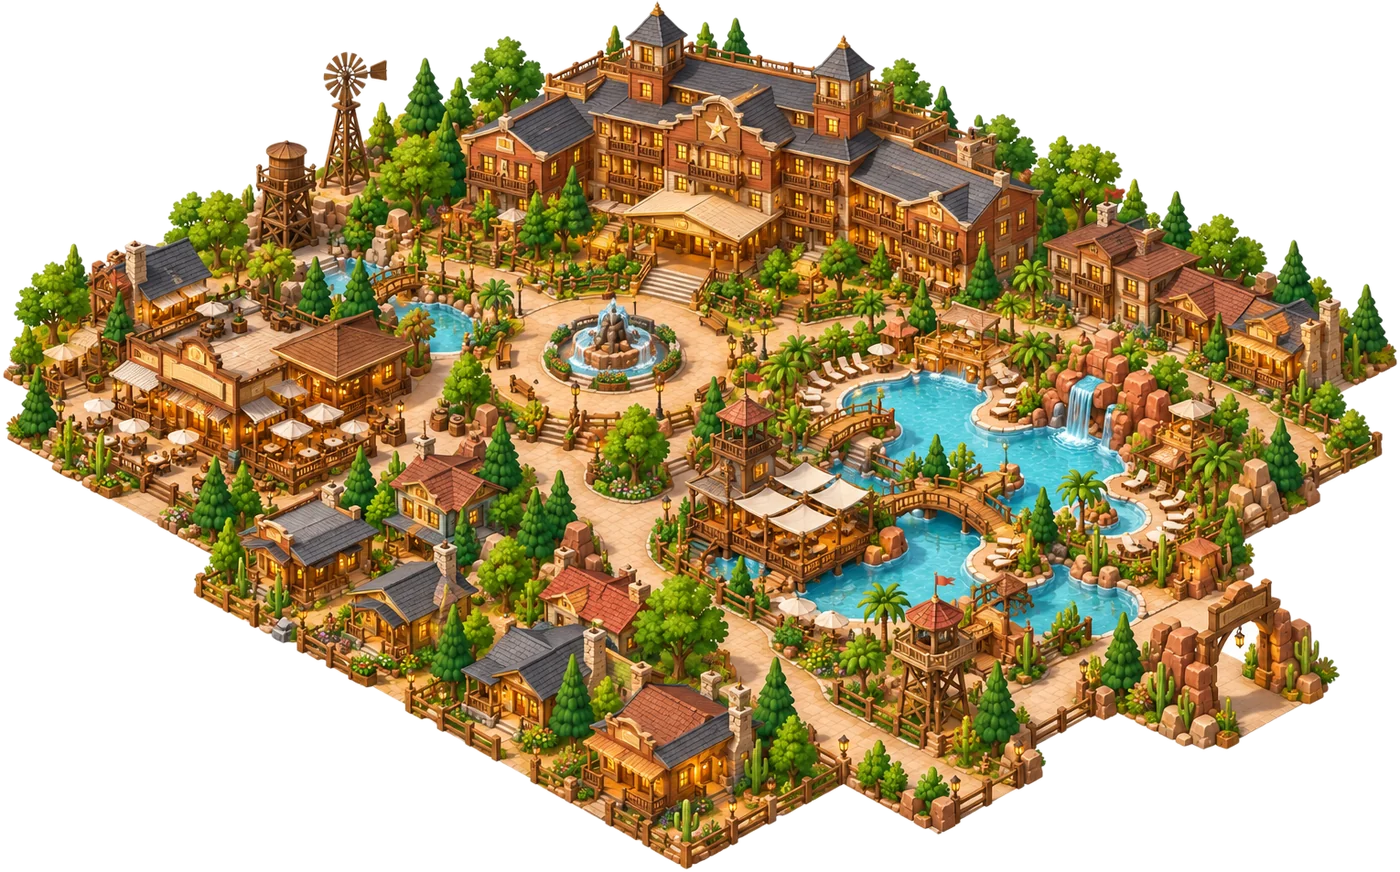
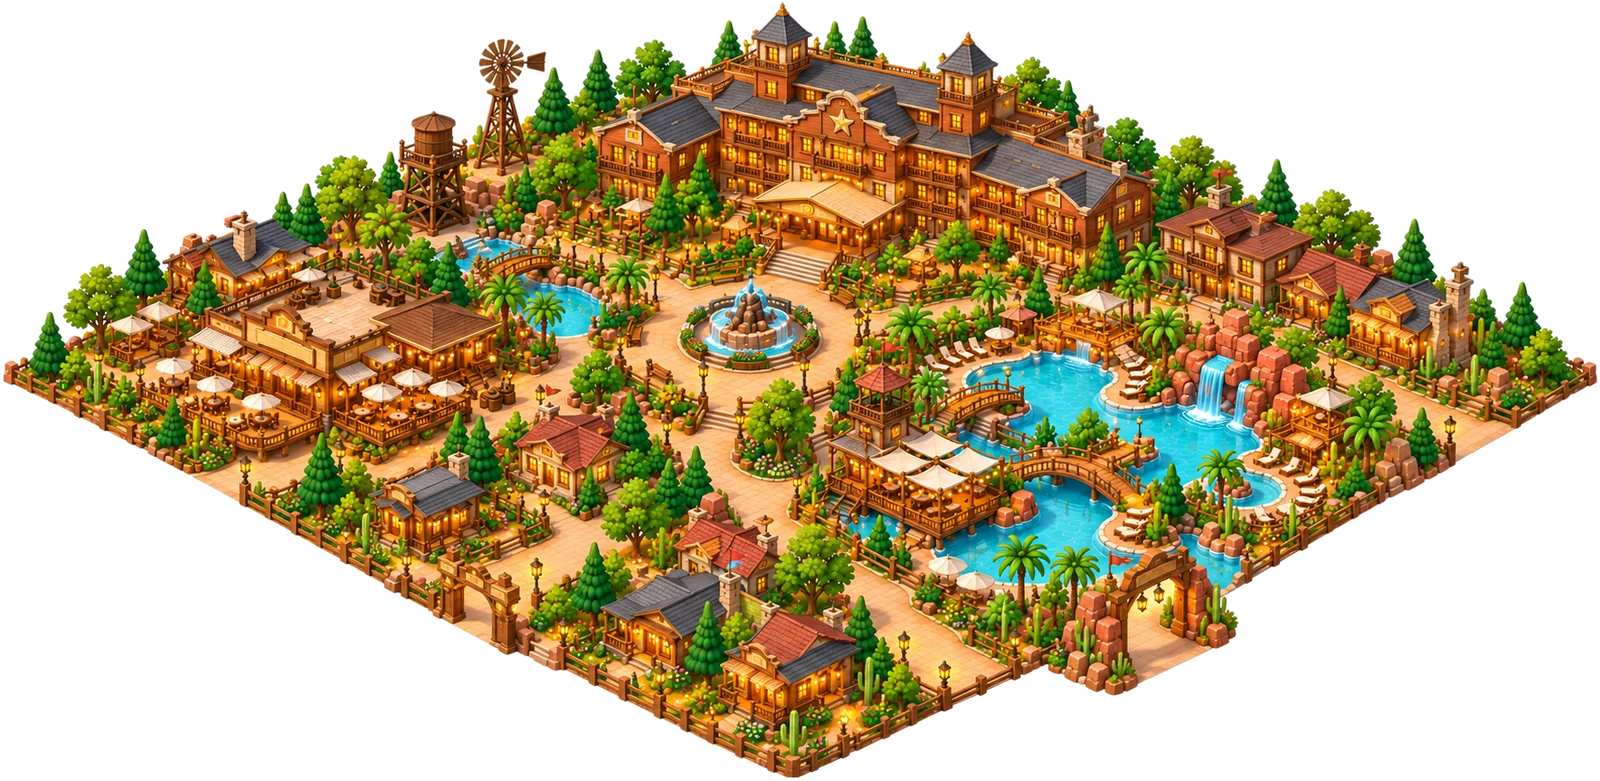
Add files via upload

diff --git a/js/parc.js b/js/parc.js
@@ -18,9 +18,9 @@ const WP = 128;                       // amplada d'una casella del parc (unitats
 const iso = (u, v) => ({ x: (u - v) * WP / 2, y: (u + v) * WP / 4 });
 const k2 = (x, y) => `${x},${y}`;
 // Les caselles van de (-7,-14) a (27,20): l'espai màxim del parc. idx() les passa a un índex de taula.
-// La graella fa 14 caselles més d'ample que l'espai màxim del parc: és on va el ressort (a la dreta).
+// La graella fa 14 caselles més d'ample que l'espai màxim del parc: és on va el ressort (a l'esquerra).
 const M = MIDA_TOTAL + 14;
-const OX = ORIGEN.x, OY = ORIGEN.y;
+const OX = ORIGEN.x + 14, OY = ORIGEN.y;
 const aLaGraella = (x, y) => x >= -OX && y >= -OY && x < M - OX && y < M - OY;
 const idx = (x, y) => (y + OY) * M + (x + OX);
 const desIdx = (c) => [c % M - OX, Math.floor(c / M) - OY];
@@ -202,6 +202,15 @@ export function obrirParc({ estat, desar = () => {}, publicar, onTanca, nomesLec
     const ent = parc.objectes.find((o) => OBJECTES[o.t].cat === 'fix');
     entradaAcces = ent ? acces.get(ent.id) : [];
     for (const id of [...rt.keys()]) if (!parc.objectes.some((o) => o.id === id)) rt.delete(id);
+  }
+  // Ressort de la versió anterior (a la dreta i amb una altra imatge): es torna a col·locar amb la nova
+  if (parc.ressort && parc.ressort.v !== RESSORT.versio) {
+    const vells = parc.objectes.filter((o) => OBJECTES[o.t]?.ressort);
+    const xs = vells.filter((o) => o.t === 'resort').map((o) => o.x);
+    const preus = {}; for (const o of vells) if (o.preu != null) preus[o.t] = o.preu;
+    parc.objectes = parc.objectes.filter((o) => !OBJECTES[o.t]?.ressort);
+    if (xs.length) parc.camins = parc.camins.filter((p) => p !== k2(xs[0] - 1, BLOC + 13));
+    delete parc.ressort.bx; situaRessort(preus);
   }
   // La torre de caiguda ara ocupa 2x2. Les que ja hi havia (1x1) creixen cap a la dreta i cap avall;
   // si no hi caben, es retiren i es tornen tots els diners.
@@ -799,7 +808,7 @@ export function obrirParc({ estat, desar = () => {}, publicar, onTanca, nomesLec
         const x = bx * BLOC + i, y = by * BLOC + i;
         if (!dinsM(x, by * BLOC - 1)) { trams.push(['x', x, by * BLOC]); punt(x, by * BLOC, 'x'); punt(x + 1, by * BLOC, 'x'); }
         if (!dinsM(x, (by + 1) * BLOC) && !forat(x, (by + 1) * BLOC)) { trams.push(['x', x, (by + 1) * BLOC]); punt(x, (by + 1) * BLOC, 'x'); punt(x + 1, (by + 1) * BLOC, 'x'); }
-        if (!dinsM(bx * BLOC - 1, y)) { trams.push(['y', bx * BLOC, y]); punt(bx * BLOC, y, 'y'); punt(bx * BLOC, y + 1, 'y'); }
+        if (!dinsM(bx * BLOC - 1, y) && !(portaR && portaR[0] + 1 === bx * BLOC && portaR[1] === y)) { trams.push(['y', bx * BLOC, y]); punt(bx * BLOC, y, 'y'); punt(bx * BLOC, y + 1, 'y'); }
         if (!dinsM((bx + 1) * BLOC, y) && !(portaR && portaR[0] === (bx + 1) * BLOC && portaR[1] === y)) { trams.push(['y', (bx + 1) * BLOC, y]); punt((bx + 1) * BLOC, y, 'y'); punt((bx + 1) * BLOC, y + 1, 'y'); }
       }
     }
@@ -1449,23 +1458,26 @@ export function obrirParc({ estat, desar = () => {}, publicar, onTanca, nomesLec
     });
   }
   function hotelsRessort() { return parc.objectes.filter((o) => o.t === 'resort-hotel'); }
+  // Col·loca el ressort a l'esquerra del parc (a les dues files de davant), amb les seves instal·lacions
+  function situaRessort(preus = {}) {
+    const bx = Math.min(...parc.blocs.map((b) => b.split(',').map(Number)).filter(([, by]) => by >= 1).map(([x]) => x)) - 2;
+    parc.ressort = { ...(parc.ressort || {}), bx, v: RESSORT.versio, pendents: parc.ressort?.pendents || 0, dema: parc.ressort?.dema || 0 };
+    const [x0, y0] = origenRessort();
+    parc.objectes.push({ id: parc.seguentId++, t: 'resort', x: x0, y: y0 });
+    for (const [t, u, v] of RESSORT.llocs) parc.objectes.push({ id: parc.seguentId++, t, x: x0 + u, y: y0 + v, preu: preus[t] ?? (t === 'resort-restaurant' ? OBJECTES[t].preuJust : 0) });
+    // camí del parc fins a la porta (si la casella és lliure)
+    const [px, py] = aRessort(...RESSORT.porta), q = k2(px + 1, py);
+    if (!parc.camins.includes(q) && !parc.objectes.some((o) => { const m = OBJECTES[o.t].mida; return px + 1 >= o.x && px + 1 < o.x + m && py >= o.y && py < o.y + m; })) parc.camins.push(q);
+  }
   function compraRessort() {
     if (parc.ressort) return;
     if (parc.diners < RESSORT.preu) return avis(`No tens prou diners: el ressort costa ${eur(RESSORT.preu)}.`, 'error');
-    // va just a la dreta del parc, a les dues files de davant
-    const bx = 1 + Math.max(...parc.blocs.map((b) => b.split(',').map(Number)).filter(([, by]) => by >= 1).map(([x]) => x));
-    if (!confirm(`Vols construir el Ressort del Far West per ${eur(RESSORT.preu)}? Anirà en un terreny nou de 14x14 caselles, a la dreta del parc, amb una porta directa al parc. Costa ${eur(RESSORT.manteniment)} al dia de manteniment.`)) return;
+    if (!confirm(`Vols construir el Ressort del Far West per ${eur(RESSORT.preu)}? Anirà en un terreny nou de 14x14 caselles, a l'esquerra del parc, amb l'entrada a la carretera i una porta directa al parc. Costa ${eur(RESSORT.manteniment)} al dia de manteniment.`)) return;
     parc.diners -= RESSORT.preu; parc.totals.despeses += RESSORT.preu;
-    parc.ressort = { bx, pendents: 0, dema: 0 };
     parc.preus.hotel ??= RESSORT.preuNit;
-    const [x0, y0] = origenRessort();
-    parc.objectes.push({ id: parc.seguentId++, t: 'resort', x: x0, y: y0 });
-    for (const [t, u, v] of RESSORT.llocs) parc.objectes.push({ id: parc.seguentId++, t, x: x0 + u, y: y0 + v, preu: t === 'resort-restaurant' ? OBJECTES[t].preuJust : 0 });
-    // camí del parc fins a la porta (si la casella és lliure)
-    const [px, py] = aRessort(...RESSORT.porta), q = k2(px - 1, py);
-    if (!parc.camins.includes(q) && !parc.objectes.some((o) => { const m = OBJECTES[o.t].mida; return px - 1 >= o.x && px - 1 < o.x + m && py >= o.y && py < o.y + m; })) parc.camins.push(q);
+    situaRessort();
     recalcula(); guarda(true); encaixa(); obreRessort();
-    avis('Ja tens el ressort! Connecta amb un camí la porta (a la cantonada de davant a l\'esquerra) amb la resta del parc.', 'ok');
+    avis('Ja tens el ressort! Connecta amb un camí la porta del ressort (a la vora esquerra del parc) amb la resta de camins.', 'ok');
   }
   function obreRessort() {
     if (!parc.ressort) {

diff --git a/js/parc-dades.js b/js/parc-dades.js
@@ -307,31 +307,31 @@ export const NOMS_VISITANTS = ['Pau', 'Martina', 'Jan', 'Júlia', 'Marc', 'Laia'
 // les terrasses i s'hi pot quedar a dormir (ingrés per nit). Tot es dona en caselles relatives (u, v).
 export const RESSORT = {
   preu: 280000, manteniment: 2600, mida: 14, habitacions: 90, preuNit: 75, atractiu: 6,
-  img: 'resort',
-  // cantonades de terra a la imatge (esquerra, baix, dreta) per encaixar-la sobre les 14x14 caselles
-  punts: [[13.7, 370.6], [654.2, 828.1], [1390.8, 366]],
+  img: 'resort', versio: 2,
+  // cantonades de terra a la imatge que van a l'esquerra, a baix i a la dreta de la pantalla.
+  // La imatge es dibuixa en mirall: així la porteta queda a la vora que toca el parc i l'arc mira a la carretera.
+  punts: [[1596.4, 377.6], [800.5, 785.1], [2.7, 377.2]],
   // caselles per on es pot caminar (els camins de la imatge)
   camins: [
-    [4, 6], [4, 7], [4, 8], [5, 6], [5, 8], [6, 6], [6, 7], [6, 8],          // plaça de la font
-    [4, 5], [5, 5], [6, 5],                                                  // davant de l'hotel
-    [7, 5], [7, 6], [8, 5], [8, 4], [9, 4], [9, 3], [10, 3], [10, 2], [11, 2], [12, 2], [12, 3],   // cap a la piscina i l'hotel de l'est
-    [13, 3], [13, 4], [13, 5], [13, 6], [13, 7], [13, 8], [13, 9], [13, 10], // passeig de la dreta fins a l'arc
-    [12, 10], [11, 10], [10, 10], [9, 10], [8, 10], [7, 10], [6, 10], [6, 9], [8, 9], [8, 8],  // avinguda del sud
-    [4, 9], [4, 10], [4, 11], [3, 12], [2, 12], [2, 13], [1, 13], [0, 13],   // cap al saloon i la porta del parc
+    [5, 4], [6, 4], [7, 4], [7, 5], [7, 6], [8, 5], [8, 6], [5, 5], [5, 6], [5, 7], [6, 7], [4, 5],   // plaça de la font
+    [8, 7], [9, 7], [10, 7], [11, 7], [12, 7], [13, 7],                                                 // avinguda fins a la porta del parc
+    [9, 8], [9, 9], [9, 10], [9, 11], [9, 12], [9, 13], [8, 13], [7, 13],                               // passeig fins a l'arc
+    [9, 5], [9, 4], [10, 4],                                                                            // cap al saloon
+    [4, 6], [4, 7], [4, 8], [3, 7], [2, 7], [2, 8],                                                     // cap a la piscina i la casa de l'est
   ],
-  porta: [0, 13],      // casella del ressort que toca el parc (la porta directa)
-  entrada: [13, 9],    // on arriben els que entren per l'arc del ressort
+  porta: [13, 7],      // casella del ressort que toca el parc (la porteta)
+  entrada: [7, 13],    // l'arc del ressort, que dona a la carretera
   // instal·lacions: (u, v) de la casella; la gent hi arriba des d'un camí del costat
   llocs: [
-    ['resort-hotel', 4, 4], ['resort-hotel', 11, 1], ['resort-hotel', 5, 10],
-    ['resort-piscina', 9, 5], ['resort-piscina', 12, 4], ['resort-piscina', 3, 8],
-    ['resort-restaurant', 3, 11], ['resort-restaurant', 9, 8],
+    ['resort-hotel', 4, 4], ['resort-hotel', 1, 8], ['resort-hotel', 12, 6],
+    ['resort-piscina', 4, 9], ['resort-piscina', 8, 11], ['resort-piscina', 7, 3],
+    ['resort-restaurant', 10, 3], ['resort-restaurant', 8, 10],
   ],
-  // on neden (posicions dins l'aigua) per a cada piscina, en el mateix ordre que les piscines de 'llocs'
+  // on neden, per a cada piscina (mateix ordre que a 'llocs')
   aigua: [
-    [[9.7, 5.5], [10.4, 5.2], [10.9, 5.7], [10.5, 6.3], [11.3, 5.4]],
-    [[12.2, 4.6], [12.3, 5.5], [11.9, 5.1], [12.5, 7.2], [11.9, 7.0]],
-    [[3.3, 8.3], [2.7, 8.5], [3.6, 8.8], [2.9, 8.9]],
+    [[4.5, 9.5], [5.3, 9.6], [4.8, 10.4], [5.5, 10.5], [4.5, 11.2]],
+    [[6.5, 11.4], [7.3, 11.5], [6.8, 12.2], [7.6, 12.3], [8.3, 11.6]],
+    [[7.4, 2.5], [7.6, 3.4], [8.3, 3.4], [7.2, 2.1]],
   ],
 };
 Object.assign(OBJECTES, {
